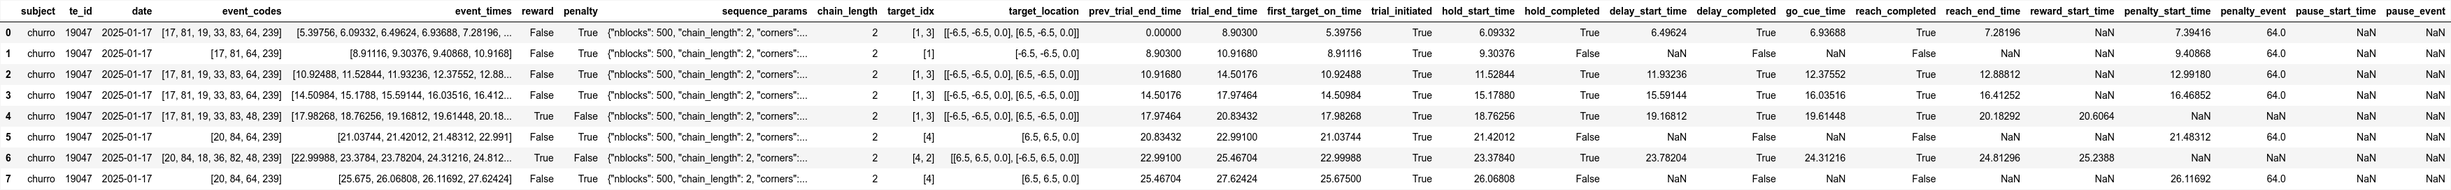
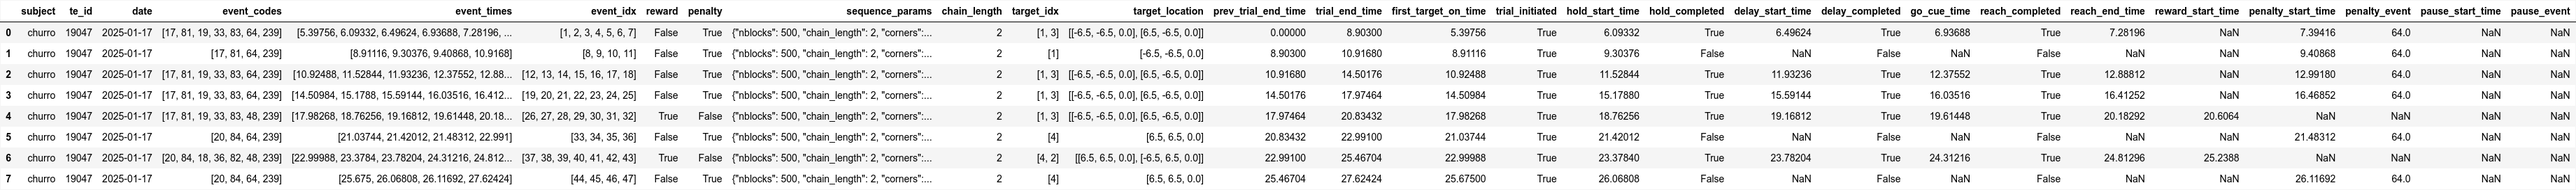
update wrapper docstring & example df with new column in base tabulate function

diff --git a/tests/test_data.py b/tests/test_data.py
@@ -932,7 +932,7 @@ class TestGetPreprocDataFuncs(unittest.TestCase):
         dates = ['2024-12-31', '2025-01-21'] # first entry is pre-pause state, second entry has pause state
         df = tabulate_behavior_data_corners(data_dir, subjects, ids, dates, metadata=['target_radius', 'cursor_radius', 'rand_delay'])
         self.assertEqual(len(df), 55)
-        self.assertEqual(len(df.columns), 27+1+3) # no. of columns + auto-added sequence params + user-inputted metadata
+        self.assertEqual(len(df.columns), 8+3+20) # no. columns in base tabulate func + no. of user-inputted metadata fields + no. columns in tabulate wrapper
 
         # Check chain length (sequence param)
         self.assertTrue(np.all(df['chain_length'] == 2))

diff --git a/aopy/data/bmi3d.py b/aopy/data/bmi3d.py
@@ -2050,6 +2050,7 @@ def tabulate_behavior_data_corners(preproc_dir, subjects, ids, dates, metadata=[
             | **date (str):** date of recording
             | **event_codes (ntrial):** numeric code segments for each trial
             | **event_times (ntrial):** time segments for each trial
+            | **event_idx (ntrial):** index segments for each trial
             | **reward (ntrial):** boolean values indicating whether each trial was rewarded
             | **penalty (ntrial):** boolean values indicating whether each trial was penalized
             | **%metadata_key% (ntrial):** requested metadata values for each key requested
